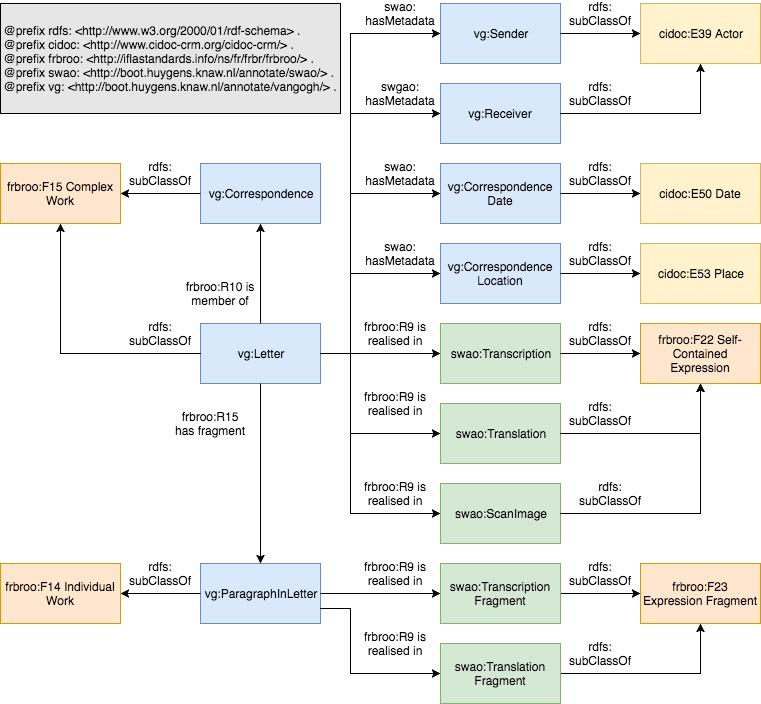
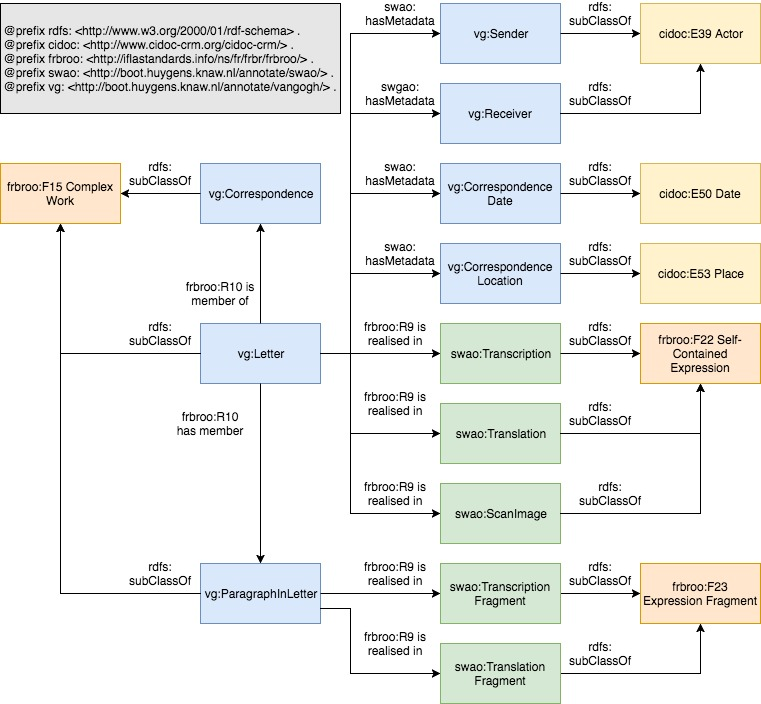
Update example with RDFa version

Changed region(s): [[0.0, 0.7812, 0.1813, 0.9062], [0.2116, 0.5938, 0.3325, 0.625]]

diff --git a/docs/annotation_ontology.md b/docs/annotation_ontology.md
@@ -33,7 +33,40 @@ For many use cases, a simpler model would suffice. Below is an example of a sing
 
 Adding RDFa for individual expressions allows scholar to refer to them a separate resources or as a single resource. E.g. if a scholar wants to use an annotation to indicate that a particular transcription contains a mistake, the scholars wants to be able to refer to the text containing the mistake at the level of the transcription. If the scholar instead wants to annotate the same piece of text with a comment about Vincent van Gogh’s writing, the annotation should refer to the abstract content of the original letter.
 
-The reason to use different conceptual levels is that the digital edition may want to treat them differently. For instance, a digital edition may wish to show annotations on the abstract content of the original letter with every expression of it, e.g. to its transcription in Dutch as well as to its translation to English. The same digital edition may wish to show an annotation about a mistake in the English translation only with that particular translation.
+The reason to use different conceptual levels is that the digital edition may want to treat them differently. For instance, a digital edition may wish to show annotations on the abstract content of the original letter with every expression of it, e.g. with its transcription in Dutch as well as with its translation to English. The same digital edition may wish to show an annotation about a mistake in the English translation only with that particular translation.
+
+Below is an example in HTML that demonstrates how different conceptual levels can be exploited in RDFa-based annotation:
+
+```xhtml
+
+<div about=”urn:vangogh:letter001” vocab=”http://boot.huygens.knaw.nl/annotate/vangogh_ontology.ttl#” typeof=”letter”>
+	<div resource=”urn:vangogh:letter001:transcription” typeof=”Transcription” property=”R9_is_realised_in”>
+		<div resource=”urn:vangogh:letter001:p.1:transcription” typeof=”TranscriptionFragment” property=”R15_has_fragment”>
+			<div resource=”urn:vangogh:letter001:p.1” typeof=”ParagraphInLetter” property=”R9_is_realisation_of”>
+					Waarde Theo,
+			</div>
+		</div>
+		<div resource=”urn:vangogh:letter001:p.2:transcription” typeof=”TranscriptionFragment” property=”R15_has_fragment”>
+			<div resource=”urn:vangogh:letter001:p.2” typeof=”ParagraphInLetter” property=”R9_is_realisation_of”>
+					Dank voor je brief, het deed mij genoegen dat je weer goed aangekomen zijt.
+			</div>
+		</div>
+	</div>
+	<div resource=”urn:vangogh:letter001:translation” typeof=”Translation” property=”R9_is_realised_in”>
+		<div resource=”urn:vangogh:letter001:p.1:translation” typeof=”TranslationFragment” property=”R15_has_fragment”>
+			<div resource=”urn:vangogh:letter001:p.1” typeof=”ParagraphInLetter” property=”R9_is_realisation_of”>
+					Dear Theo,
+			</div>
+		</div>
+		<div resource=”urn:vangogh:letter001:p.2:translation” typeof=”TranslationFragment” property=”R15_has_fragment”>
+			<div resource=”urn:vangogh:letter001:p.2” typeof=”ParagraphInLetter” property=”R9_is_realisation_of”>
+					Thanks for your letter, I was glad to hear that you got back safely.
+			</div>
+		</div>
+	</div>
+</div>
+
+```
 
 
 ## Special features of the SWA Ontology
